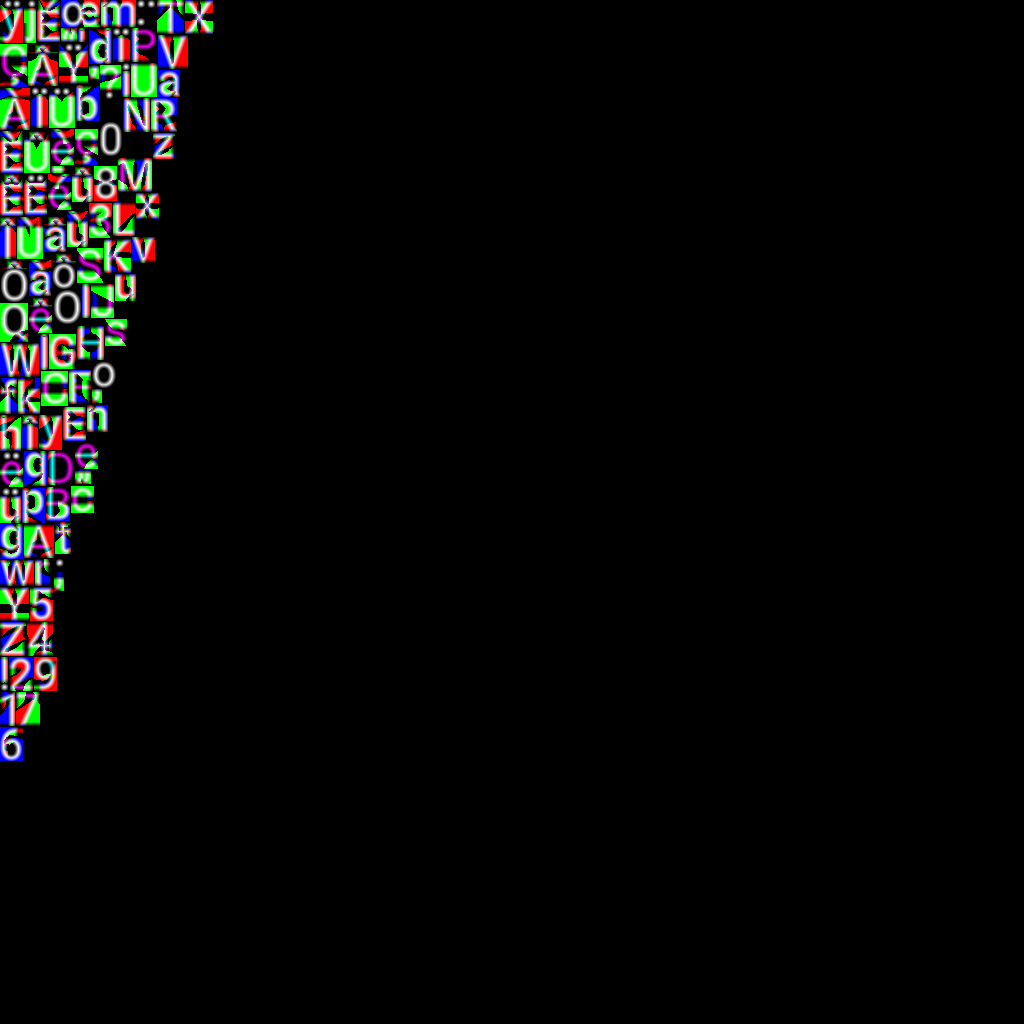
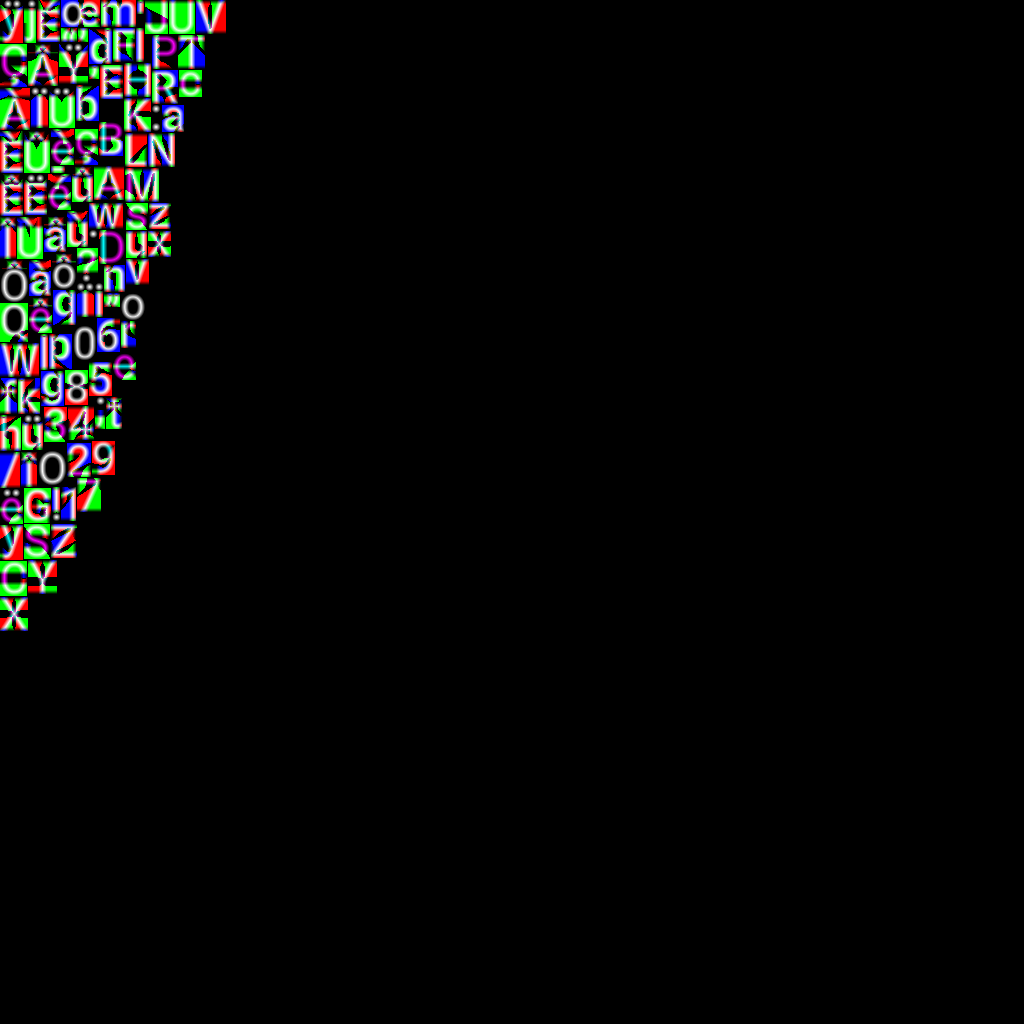
adding a /

Changed region(s): [[0.0, 0.0, 0.2188, 0.75]]

diff --git a/custom-msdf/info.md b/custom-msdf/info.md
@@ -11,3 +11,5 @@ iwth
 “”'’-;?.,ÀàÂâÉéÈèÊêËëÎîÏïÔôÙùÛû ÜüŸÿÇçabcdefghijklmnopqrstuvwxyzABCDEFGHIJKLMNOPQURSTUVWXYZ
 œ“”'’-;?.,ÀàÂâÉéÈèÊêËëÎîÏïÔôÙùÛû ÜüŸÿÇçabcdefghijklmnopqrstuvwxyzABCDEFGHIJKLMNOPQURSTUVWXYZ
 œ“”'’-:;?.,ÀàÂâÉéÈèÊêËëÎîÏïÔôÙùÛû ÜüŸÿÇçabcdefghijklmnopqrstuvwxyzABCDEFGHIJKLMNOPQURSTUVWXYZ!
+œ“”'’-:;?.,ÀàÂâÉéÈèÊêËëÎîÏïÔôÙùÛû ÜüŸÿÇçabcdefghijklmnopqrstuvwxyzABCDEFGHIJKLMNOPQURSTUVWXYZ!1234567890
+œ“”'’-:;?.,ÀàÂâÉéÈèÊêËëÎîÏïÔôÙùÛû ÜüŸÿÇçabcdefghijklmnopqrstuvwxyzABCDEFGHIJKLMNOPQURSTUVWXYZ!1234567890/
